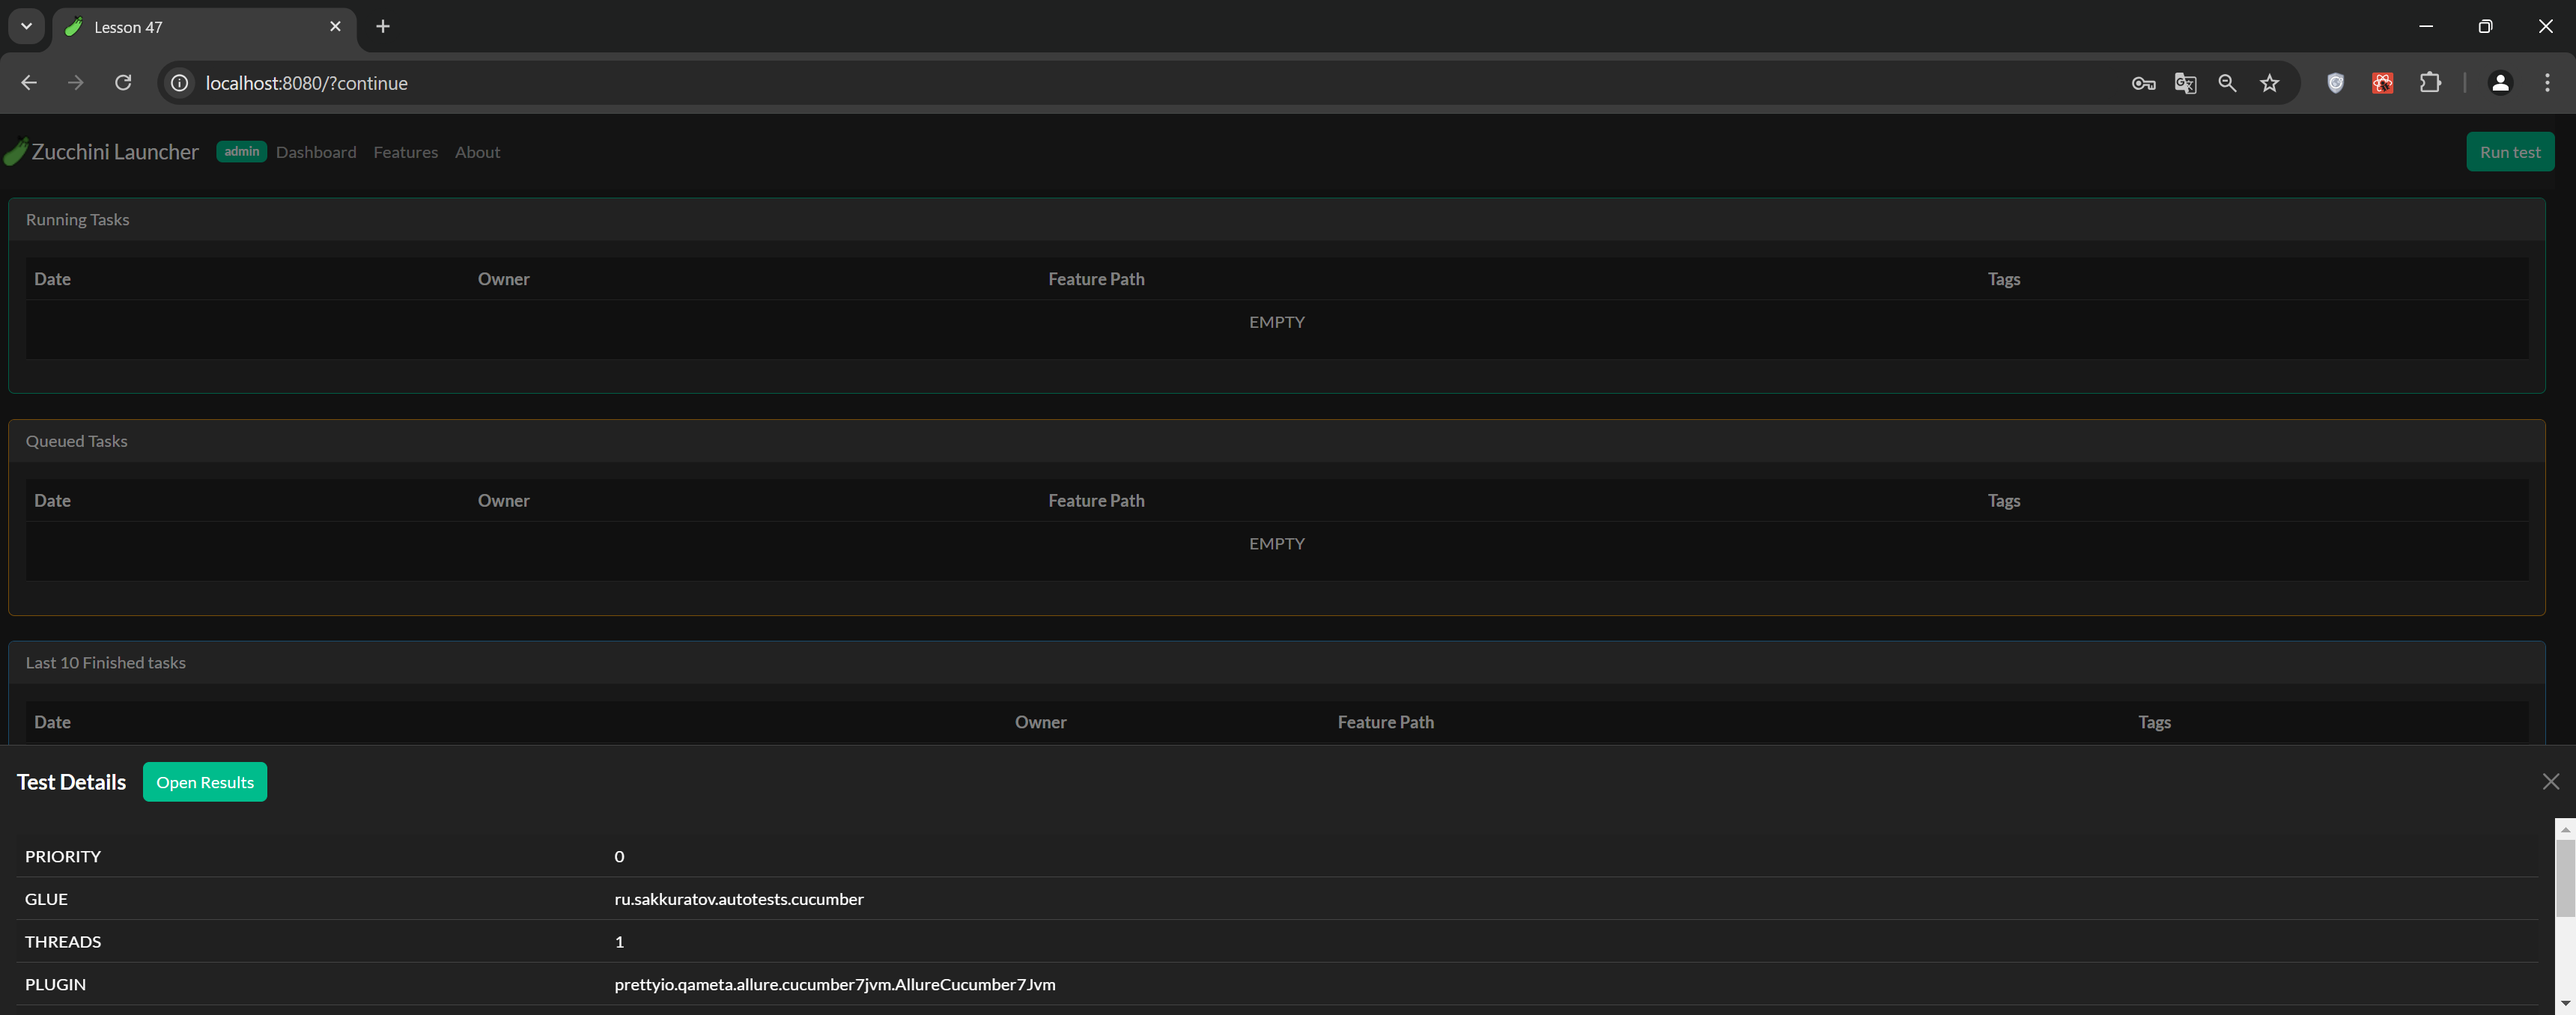
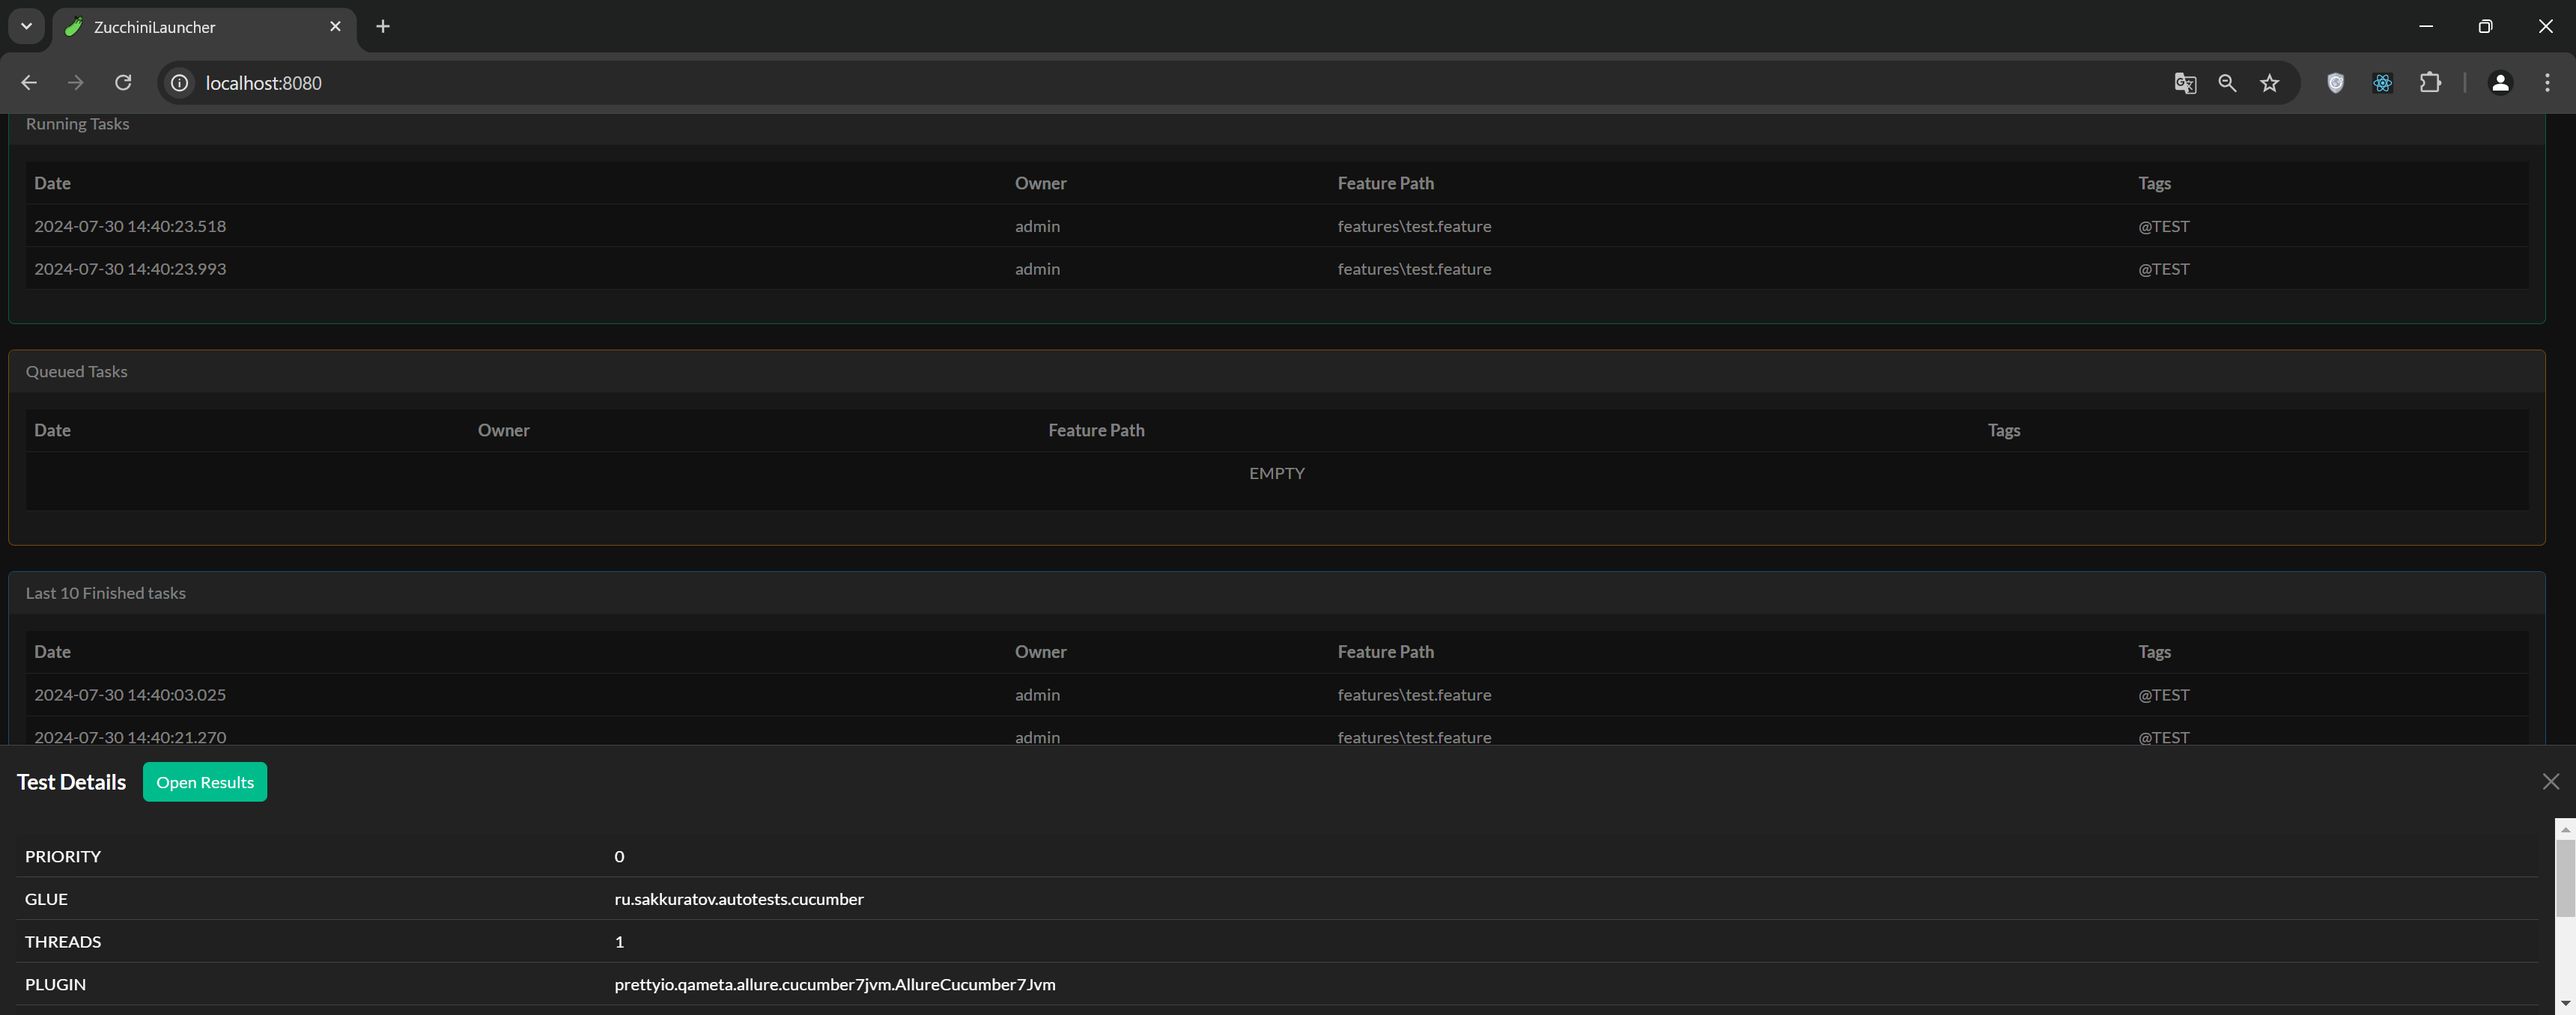
Косметические доработки

diff --git a/src/frontend/src/index.html b/src/frontend/src/index.html
@@ -3,7 +3,7 @@
     <head>
         <meta charset="UTF-8" />
         <meta content="width=device-width, initial-scale=1.0" name="viewport" />
-        <title>Lesson 47</title>
+        <title>ZucchiniLauncher</title>
     </head>
     <body>
         <div id="app"></div>

diff --git a/README.md b/README.md
@@ -43,7 +43,13 @@
 ## Установка
 
 Для локального запуска приложения вам нужно скачать
-пакет [zucchini-launcher.jar](https://github.com/SergeyAkkuratov/ZucchiniLauncher/releases/tag/major) и запустить его:
+пакет [zucchini-launcher.jar](https://github.com/SergeyAkkuratov/ZucchiniLauncher/releases/tag/major).  
+Далее подготовить три папки:
+  - features - папка для .feature файлов. В неё тербуется сложить существующие .feature файлы. Так же в ней будут храниться файлы, созданные в ZucchiniLauncher.
+  - allure-results - папка для размещения результатов тестов в Allure формате
+  - allure-reports - папкв для размещения Allure Report
+
+После этого можно запускать приложение:
 
 ```bash
 java -jar zucchini-launcher.jar
@@ -51,13 +57,22 @@ java -jar zucchini-launcher.jar
 
 Приложение будет доступно по адресу http://localhost:8080/.
 
-Если вы хотите самостоятельно выполнить сборку приложения из исходного кода, то требуется склонировать проект и выполнить сборку через Gradle:
+Если вы хотите самостоятельно выполнить сборку приложения из исходного кода, то требуется склонировать проект и выполнить сборку frontend части через npm и backend части через Gradle.
+После чего выполнить подготовку и запуск как указано выше.:
 
 ```bash
+cd src\frontend
+npm run build
+cd ..\..
 gradlew clean bootJar
 ```
 
 Для использования Allure Report требуется запустить и настроить [allure-docker-service](https://github.com/fescobar/allure-docker-service).
+Пример запуска:
+```bash
+docker run -p 5050:5050 -e CHECK_RESULTS_EVERY_SECONDS=3 -e KEEP_HISTORY=1 -e KEEP_HISTORY_LATEST=10 -v ./allure-results:/app/allure-results  -v ./allure-reports:/app/default-reports frankescobar/allure-docker-service
+```
+
 
 ## Использование
 
@@ -110,9 +125,8 @@ gradlew clean bootJar
 Если изменить текст .feature файла - станет доступна кнопка "Save changes". Нажав её можно сохранить изменение на сервере.  
 Если же нажать "Cancel" - все изменения отменятся.
 
-Для создания нового .feature файла нужно нажать на стрелочку рядом с кнопкой "Save changes" и выбрать пункт "Add new feature". После этого откроется
-окно:
-![newFeature](./images/addNewFeature.png)
+Для создания нового .feature файла нужно нажать на стрелочку рядом с кнопкой "Save changes" и выбрать пункт "Add new feature". После этого откроется окно:  
+![newFeature](./images/addNewFeature.png)  
 В поле "File name" нужно ввести имя нового .feature файла (расширение указывать не нужно, оно подставится автоматически).
 
 Пользователь с ролью admin может так же удалять .feature файлы.
